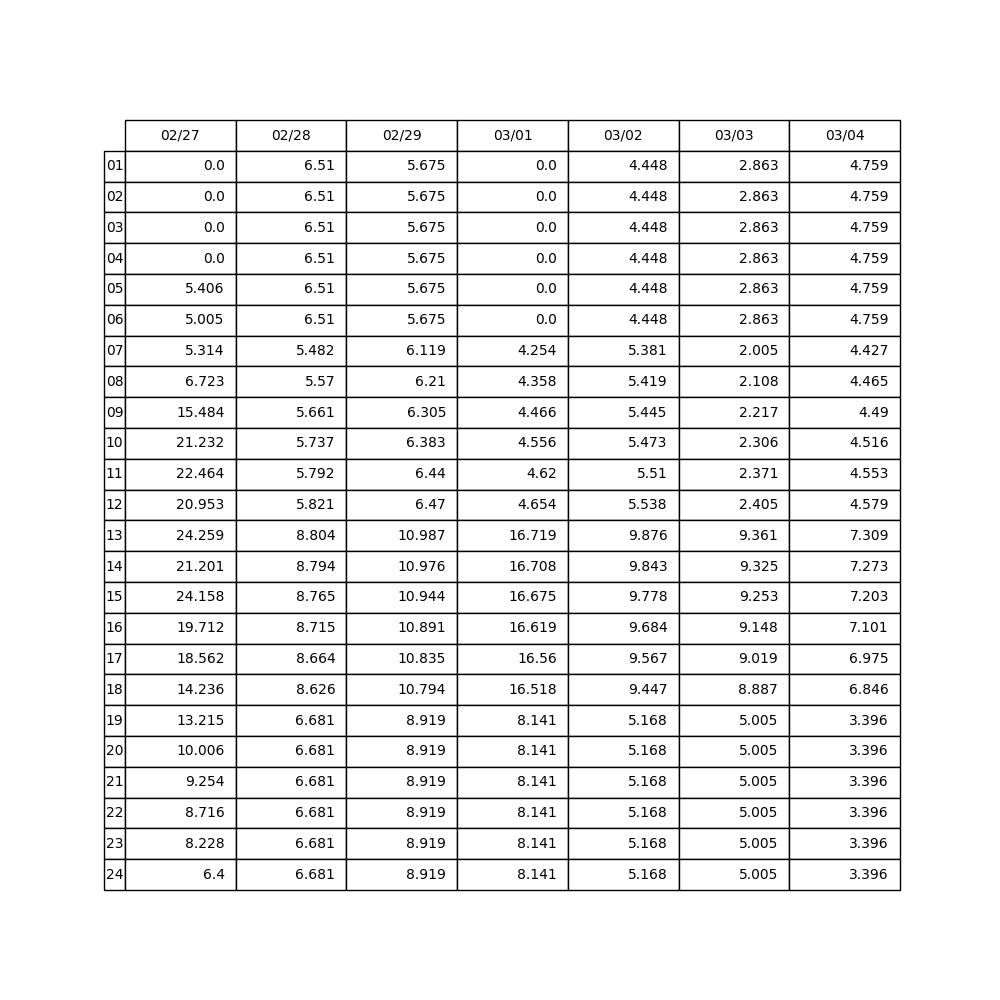
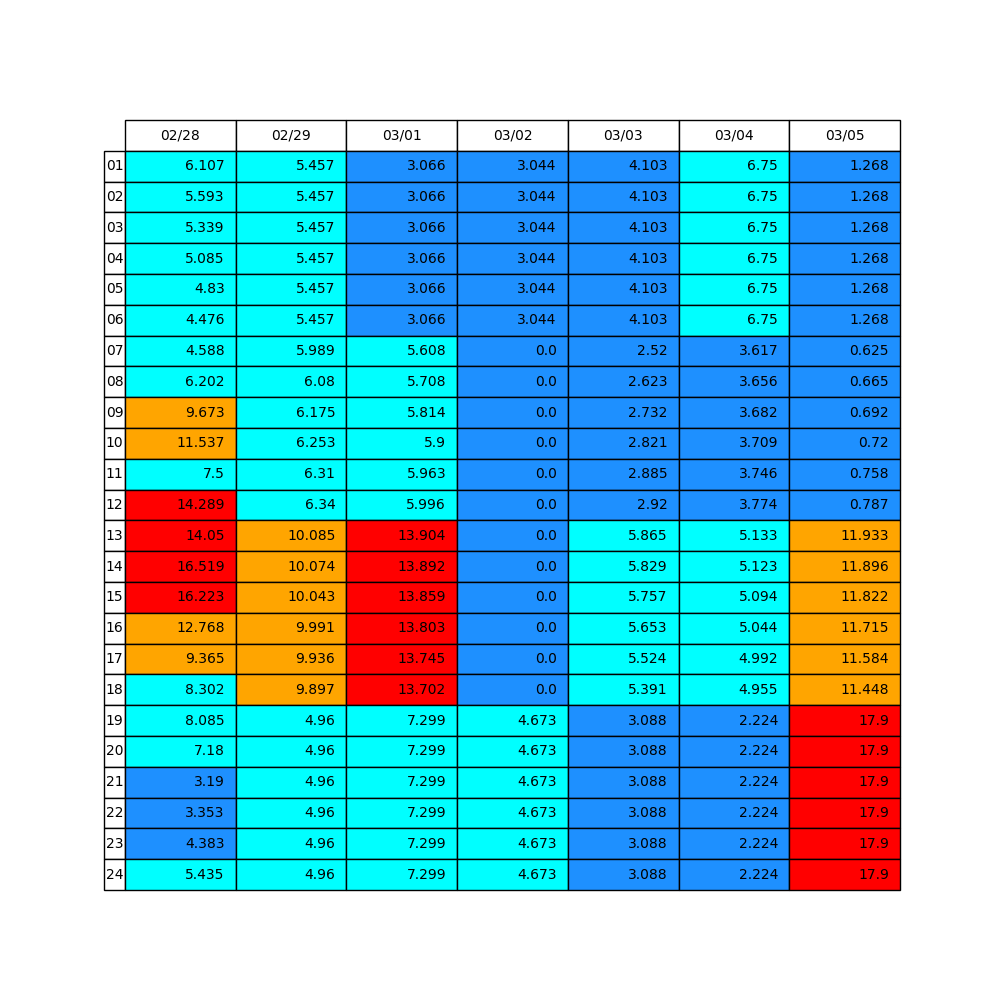
細かな修正

diff --git a/weekly_suggest_tb.py b/weekly_suggest_tb.py
@@ -8,6 +8,7 @@ from weather_1day import tenki_jp_day
 import numpy as np
 import pandas as pd
 import matplotlib.pyplot as plt
+from matplotlib import colors
 
 def createPenmanArray(postnumber):
     #1時〜0時
@@ -37,7 +38,7 @@ def createPenmanArray(postnumber):
         if (('月' in data[i][0])|('日' in data[i][0])):
             bgn_index = i
             break
-    
+
     #当日の日付
     date_colum.append(data[0][0].replace('月', '/')[:-4] )
     #5個飛ばしで先頭（0-6）を探す
@@ -89,12 +90,14 @@ def createTable(array, time_index, date_colum):
     #df.style.background_gradient(cmap='winter')
     #df.plot()
     #print(df)
+    #colors = plt.cm.BuPu(np.linspace(0, 0.5, len(array)))
     fig, ax = plt.subplots(figsize=(10,10))
     ax.axis('off')
     ax.axis('tight')
     ax.table(cellText=df.values,
              colLabels=df.columns,
              rowLabels=df.index,
+             cellColours=coloring(array_t),#plt.cm.bwr(array_t/15.0),
              loc='center',
              bbox=[0,0,1,1])
 
@@ -105,7 +108,28 @@ def executeCreateTable(postnumber):
     data, time, date = createPenmanArray(postnumber)
     createTable(data, time, date)
 
+def coloring(data):
+    color_data = np.full((24, 7), '1111111')
+
+    level = data.max()
+    i, j = 0, 0
+    for day in data:
+        for val in day:
+            if ( level*(3/4) < val <=  level):
+                color_data[i][j] = '#FF0000'
+            elif ( level*(2/4) < val <=  level*(3/4)):
+                color_data[i][j] = '#FFA500' #orangered
+            elif ( level*(1/4) < val <=  level*(2/4)):
+                color_data[i, j] = '#00FFFF'
+            elif ( 0 <= val <=  level*(1/4)):
+                color_data[i][j] = '#1E90FF' #dodgerblue
+            else:
+                color_data[i][j] = '#708090' #slategray
+            j += 1
+        j = 0
+        i += 1
+
+    return color_data
 
 if __name__ == "__main__":
     executeCreateTable('2591206')
-    
